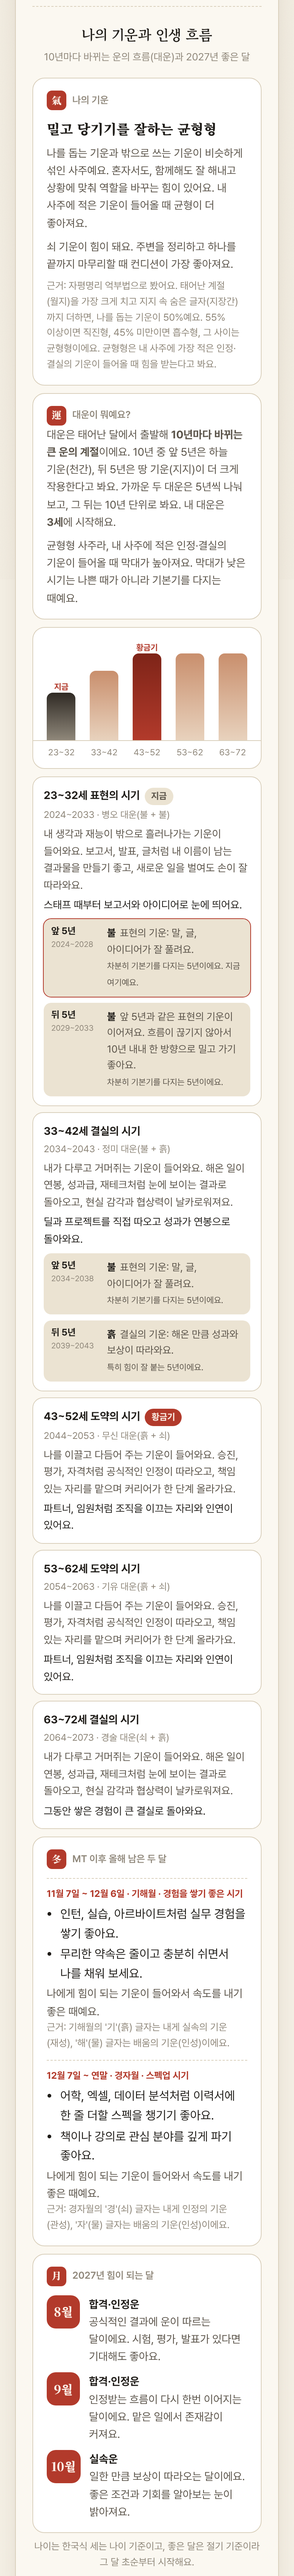
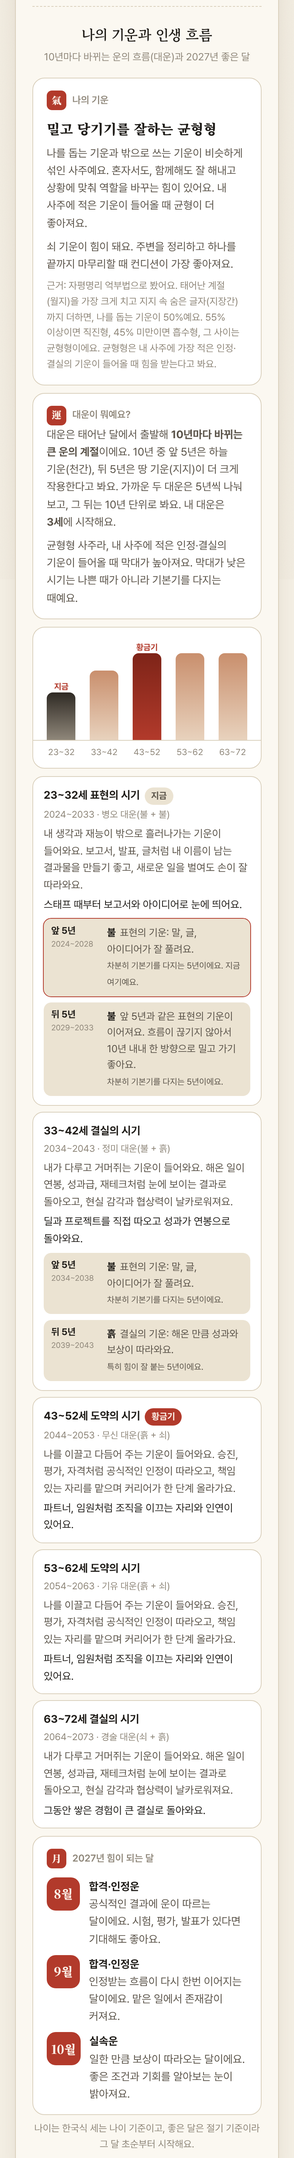
재물운 상세(들어오는 길·쓰는 스타일·모으는 법), 남은 두 달을 1페이지로
Claude-Session: https://claude.ai/code/session_012bKZfKrCyZ1atjBTGebht7

Changed region(s): [[0.1231, 0.0, 0.8923, 0.9955], [0.8, 0.9643, 0.8308, 0.9955]]

diff --git a/lib/reading.js b/lib/reading.js
@@ -114,8 +114,38 @@ function moneyReading(counts, has) {
     headline = '돈 냄새를 잘 맡는 사업가형';
     body = '돈이 들어오는 길을 잘 찾아요. 들어오는 만큼 나가기도 쉬우니 관리만 잘하면 큰 재산을 모을 수 있어요.';
   }
-  if (counts.비겁 >= 3) body += ' 다만 친구들과 어울리다 지출이 커질 수 있으니 밥값은 더치페이 추천!';
-  return { headline, body };
+  // 버는 방식: 재성 말고 가장 많은 기운으로, 어떤 일을 할 때 수입이 따라오는지 본다
+  const EARN = {
+    식상: ['내 실력과 결과물이 곧 돈이 되는 구조예요. 보고서, 발표, 아이디어처럼 눈에 보이는 성과를 낼수록 평가와 보상이 같이 올라가요.', '생각을 표현하고 결과물로 만드는 기운(식상)'],
+    관성: ['직급과 책임이 올라가는 만큼 수입이 계단처럼 오르는 구조예요. 승진, 평가 시즌에 돈 운이 같이 움직여요.', '원칙과 책임을 뜻하는 기운(관성)'],
+    인성: ['자격과 전문성이 몸값을 만드는 구조예요. 한 분야를 깊게 팔수록 "그 사람한테 맡기자"는 일이 늘어 수입이 따라와요.', '배우고 깊이 파는 기운(인성)'],
+    비겁: ['사람과 함께할 때 돈이 들어오는 구조예요. 동료, 선후배 인맥에서 좋은 기회와 정보가 들어와요.', '나와 같은 편이 되어 주는 기운(비겁)'],
+  };
+  const via = ['식상', '관성', '인성', '비겁'].sort((x, y) => counts[y] - counts[x])[0];
+  const earn = { label: '돈이 들어오는 길', text: EARN[via][0], basis: `재성 말고는 ${EARN[via][1]}이 ${counts[via]}개로 가장 두드러져서, 이 기운을 쓰는 일이 수입으로 이어져요.` };
+
+  // 쓰는 스타일: 가장 두드러진 기운으로 본다
+  let spend;
+  if (counts.비겁 >= 3) spend = { text: '사람 만나는 데 쓰는 돈이 많은 편이에요. 모임 통장이나 한 달 약속비를 미리 정해 두면 즐겁게 쓰고도 남아요.', basis: `나와 같은 기운(비겁)이 ${counts.비겁}개라 사람과 어울리는 데 돈이 잘 나가요.` };
+  else if (counts.식상 >= 3) spend = { text: '경험과 취미에 아낌없이 쓰는 편이에요. 여행, 공연, 맛집처럼 남는 경험에 쓰는 돈은 결국 나를 키우는 투자가 돼요.', basis: `표현하는 기운(식상)이 ${counts.식상}개라 즐거움과 경험에 지갑이 열려요.` };
+  else if (counts.인성 >= 3) spend = { text: '책, 강의, 자기계발에 돈을 아끼지 않는 편이에요. 배움에 쓴 돈이 몇 년 뒤 몸값으로 돌아오는 타입이에요.', basis: `배우는 기운(인성)이 ${counts.인성}개라 배움에 쓰는 돈이 커요.` };
+  else if (has.has('정재')) spend = { text: '필요한 곳에만 쓰는 계획형이에요. 가계부나 소비 앱으로 흐름만 보면 큰 실수 없이 잘 모아요.', basis: '꼼꼼한 돈 기운(정재)이 있어 씀씀이가 계획적이에요.' };
+  else spend = { text: '기분과 상황에 따라 유연하게 쓰는 편이에요. 월급날 저축부터 떼어 두는 습관 하나면 충분히 든든해져요.', basis: '한쪽으로 크게 치우친 소비 기운이 없어요.' };
+
+  // 모으는 팁: 정재(꾸준히)·편재(기회)·재성 없음으로 나눈다
+  const nj = has.has('정재');
+  const np = has.has('편재');
+  const save = counts.재성 === 0
+    ? { text: '돈이 저절로 모이는 장치가 잘 맞아요. 월급날 자동이체로 적금부터 빠져나가게 해 두면, 신경 쓰지 않아도 쌓여요.', basis: '돈을 뜻하는 기운(재성)이 사주 겉에 드러나 있지 않아요.' }
+    : np && !nj
+      ? { text: '기회를 보는 눈이 있어서 투자와 잘 맞아요. 대신 "이만큼까지만" 같은 원칙을 미리 정해 두면 오래 웃을 수 있어요.', basis: '큰 판의 돈을 뜻하는 기운(편재)이 있어요.' }
+      : { text: '목표가 숫자로 보일 때 힘이 나는 타입이에요. "1년에 얼마"처럼 목표 금액과 기간을 정해 두고 적금으로 모으면 동기가 확 올라가요.', basis: '꾸준한 돈을 뜻하는 기운(정재)이 있어요.' };
+
+  return {
+    headline,
+    body,
+    points: [earn, { label: '돈 쓰는 스타일', ...spend }, { label: '이렇게 모으면 좋아요', ...save }],
+  };
 }
 
 function careerReading(counts) {

diff --git a/public/index.html b/public/index.html
@@ -612,6 +612,7 @@
         <p class="hint" style="text-align:center">풀이는 한국에서 가장 널리 쓰는 자평명리(십성·신강약·억부법)를 기준으로 했어요.</p>
       </div>
       <div class="reading" id="reading"></div>
+      <div class="reading" id="rest" hidden></div>
       <div class="career" id="career" hidden></div>
       <div class="flow" id="flow" hidden></div>
       <div class="specials" id="specials"></div>
@@ -711,7 +712,7 @@
 
     // 결과가 길어서 세 페이지로 나눈다. 위에는 탭, 아래에는 다음 페이지 버튼.
     const PAGES = [
-      { label: '사주와 나', ids: ['bapjo', 'character', 'saju-block', 'reading', 'specials', 'match', 'next'] },
+      { label: '사주와 나', ids: ['bapjo', 'character', 'saju-block', 'reading', 'rest', 'specials', 'match', 'next'] },
       { label: '회계사 커리어', ids: ['career'] },
       { label: '인생 흐름', ids: ['flow'] },
     ];
@@ -828,16 +829,22 @@
           <div class="decade-axis">${axis}</div>
         </div>
         <ul class="decade-list">${list}</ul>
-        ${f.rest?.length ? `<article class="read-card" style="margin-top:10px">
-          <div class="read-head"><span class="read-icon">冬</span><span class="read-label">MT 이후 올해 남은 두 달</span></div>
-          ${f.rest.map((r) => `<div class="cd"><span class="k">${r.period} · ${r.ganzhi}월 · ${r.label}</span><ul>${r.todo.map((t) => `<li>${t}</li>`).join('')}</ul><p class="more">${r.note}</p>${r.basis ? `<p class="basis">${r.basis}</p>` : ''}</div>`).join('')}
-        </article>` : ''}
         <article class="read-card" style="margin-top:10px">
           <div class="read-head"><span class="read-icon">月</span><span class="read-label">2027년 힘이 되는 달</span></div>
           <div style="margin-top:12px">${f.months.map((m) => `<div class="month-row"><span class="m">${m.month}월</span><p><b style="color:var(--ink)">${m.label}</b><br>${m.body}</p></div>`).join('')}</div>
         </article>
         <p class="hint" style="text-align:center">나이는 한국식 세는 나이 기준이고, 좋은 달은 절기 기준이라 그 달 초순부터 시작해요.</p>`;
       box.hidden = false;
+      // MT 이후 올해 남은 두 달은 1페이지(사주와 나)에 따로 보여 준다
+      const rest = document.getElementById('rest');
+      rest.hidden = !f.rest?.length;
+      rest.innerHTML = f.rest?.length ? `
+        <h3>MT 이후 올해 남은 두 달</h3>
+        <p class="sub">11월 초부터 연말까지, 나에게 맞는 시기별 추천</p>
+        <article class="read-card">
+          <div class="read-head"><span class="read-icon">冬</span><span class="read-label">2026년 11~12월</span></div>
+          ${f.rest.map((r) => `<div class="cd"><span class="k">${r.period} · ${r.ganzhi}월 · ${r.label}</span><ul>${r.todo.map((t) => `<li>${t}</li>`).join('')}</ul><p class="more">${r.note}</p>${r.basis ? `<p class="basis">${r.basis}</p>` : ''}</div>`).join('')}
+        </article>` : '';
     }
 
     function renderSpecials(sp) {

diff --git a/README.md b/README.md
@@ -20,9 +20,9 @@
 
 결과는 휴대폰에서 끝까지 읽히도록 3페이지(탭 + "다음 페이지" 버튼)로 나눴다.
 
-1. **사주와 나**: (편성이 공개되면 맨 위에) 내 MT조(조 설명, 조 기운, 조원별 궁합을 잘 맞는 순서로), 일주 동물, 사주 여덟 글자와 오행 분포, 연애·재물 풀이, 매력 지수와 신살(도화·홍염·역마·괴강), 2027년 운세, 나와 잘 맞는 사람
+1. **사주와 나**: (편성이 공개되면 맨 위에) 내 MT조(조 설명, 조 기운, 조원별 궁합을 잘 맞는 순서로), 일주 동물, 사주 여덟 글자와 오행 분포, 연애·재물 풀이(항목별 근거), MT 이후 올해 남은 두 달, 매력 지수와 신살(도화·홍염·역마·괴강), 2027년 운세, 나와 잘 맞는 사람
 2. **회계사 커리어**: 입사 부서 1·2순위(감사·세무·딜·컨설팅 중, 강점과 근거), 그다음 커리어(파트너·이직·개업, 대운 황금기와 연결), 일하는 스타일, 2027년 커리어 흐름
-3. **인생 흐름**: 나의 기운(직진형·균형형·흡수형과 % 근거), 대운 그래프와 10년 카드(연도·간지, 가까운 두 대운은 앞/뒤 5년), MT 이후 올해 남은 두 달, 2027년 힘이 되는 달
+3. **인생 흐름**: 나의 기운(직진형·균형형·흡수형과 % 근거), 대운 그래프와 10년 카드(연도·간지, 가까운 두 대운은 앞/뒤 5년), 2027년 힘이 되는 달
 
 ## AI를 어디에 쓰고, 어디에 안 쓰는가
 
